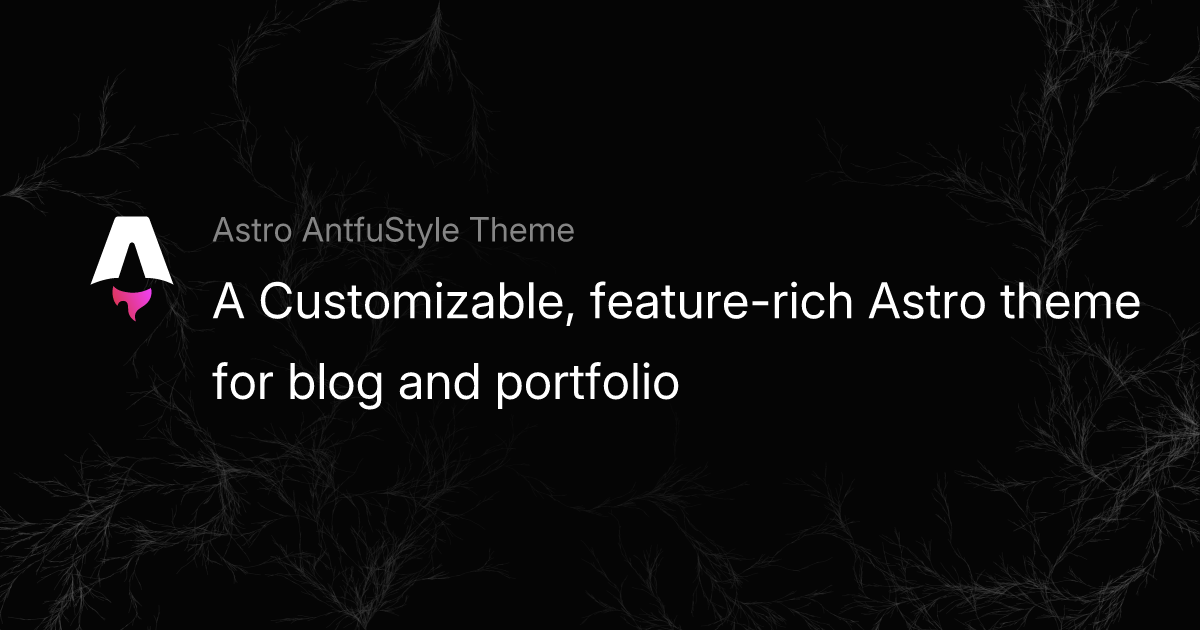
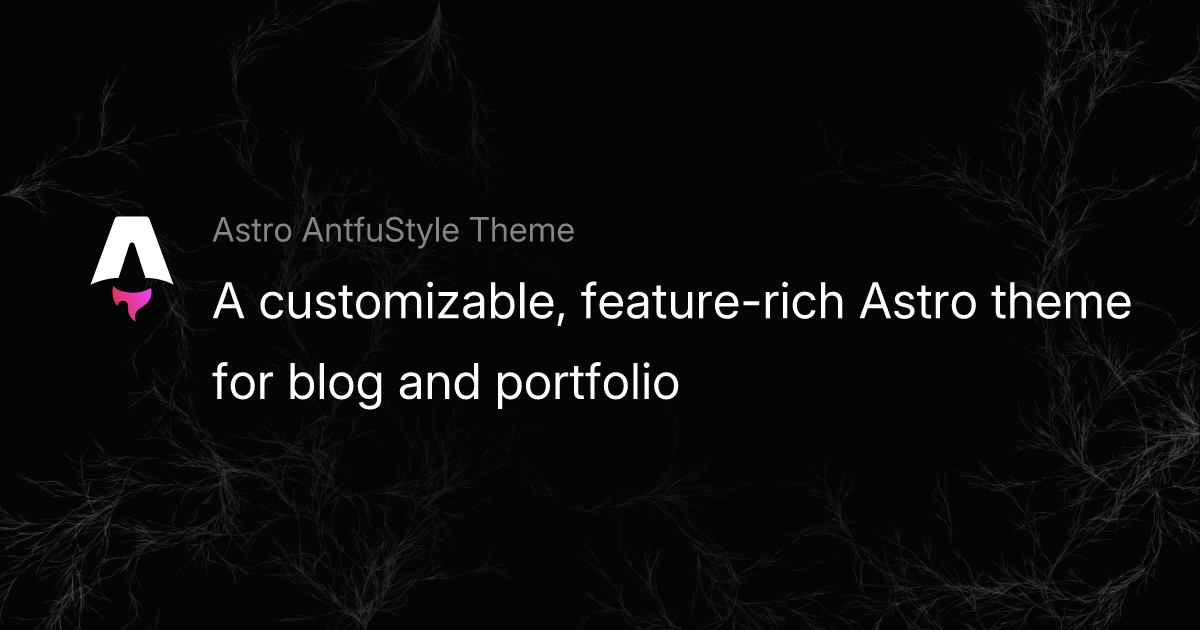
feat(customize): add features.ogImage config & support regenerating fallback og image 1. add customizable ogImage options: authorOrBrand, fallbackTitle, fallbackBgType 2. modify the ogImageURL assignment logic 3. update remark-generate-og-image plugin logic

Changed region(s): [[0.2158, 0.4524, 0.9558, 0.5127]]

diff --git a/plugins/remark-generate-og-image.ts b/plugins/remark-generate-og-image.ts
@@ -28,13 +28,18 @@ const satoriOptions: SatoriOptions = {
   ],
 }
 
-function checkFileExistsInDir(path: string, filename: string) {
+export function checkFileExistsInDir(path: string, filename: string) {
   const fullPath = join(process.cwd(), path, filename)
 
   return existsSync(fullPath)
 }
 
-async function generateOgImage(title: string, bgType: BgType, output: string) {
+async function generateOgImage(
+  source: string,
+  title: string,
+  bgType: BgType,
+  output: string
+) {
   await mkdir(dirname(output), { recursive: true })
 
   console.log(
@@ -42,7 +47,10 @@ async function generateOgImage(title: string, bgType: BgType, output: string) {
   )
 
   try {
-    const svg = await satori(ogImageMarkup(title, bgType), satoriOptions)
+    const svg = await satori(
+      ogImageMarkup(source, title, bgType),
+      satoriOptions
+    )
     const png = new Resvg(svg).render().asPng()
     writeFileSync(output, png)
   } catch (e) {
@@ -59,9 +67,27 @@ async function generateOgImage(title: string, bgType: BgType, output: string) {
  * @see https://github.com/vfile/vfile
  */
 function remarkGenerateOgImage() {
+  // get config
+  const ogImage = config.features.ogImage
+  if (!(Array.isArray(ogImage) && ogImage[0])) return
+
+  const sourceConfig = ogImage[1].authorOrBrand
+  const titleConfig = ogImage[1].fallbackTitle
+  const bgTypeConfig = ogImage[1].fallbackBgType
+
   // eslint-disable-next-line @typescript-eslint/ban-ts-comment
   // @ts-expect-error
   return async (_tree, file) => {
+    // regenerate fallback
+    if (!checkFileExistsInDir('public/og-images', 'og-image.png')) {
+      await generateOgImage(
+        sourceConfig,
+        titleConfig,
+        bgTypeConfig,
+        'public/og-images/og-image.png'
+      )
+    }
+
     // check filename
     const filename = file.basename
     if (!filename || !(filename.endsWith('.md') || filename.endsWith('.mdx')))
@@ -97,10 +123,9 @@ function remarkGenerateOgImage() {
       return
     }
 
-    // get frontmatter title
+    // get title
     const title = file.data.astro.frontmatter.title
     if (!title.trim().length) {
-      console.warn('test')
       console.warn(
         `${chalk.black(getCurrentFormattedTime())} ${chalk.yellow(`[WARN] The 'title' field in the '${filename}' frontmatter is an empty string.`)}`
       )
@@ -108,17 +133,15 @@ function remarkGenerateOgImage() {
 
     // get bgType
     const dirname = basename(file.dirname)
-    const bgType = config.pages[dirname].bgType ?? 'plum'
+    const bgType = config.pages[dirname].bgType ?? bgTypeConfig
 
     // generate og images
     await generateOgImage(
+      sourceConfig,
       title.trim(),
       bgType,
       `public/og-images/${nameWithoutExt}.png`
     )
-
-    // add frontmatter
-    file.data.astro.frontmatter.ogImage = `/og-images/${nameWithoutExt}.png`
   }
 }
 

diff --git a/src/types.ts b/src/types.ts
@@ -241,11 +241,43 @@ export interface ShareConfig {
   mastodon: Mentioned
 }
 
-export interface TocConfig {
+interface TocConfig {
   /**
    * Set the display position of the table of contents.
    */
   position: 'left' | 'right'
+}
+
+interface OgImageConfig {
+  /**
+   * Set the name of the author or brand associated with the content.
+   *
+   * @description
+   * Used to display above the title to enhance recognition.
+   */
+  authorOrBrand: string
+
+  /**
+   * Set title for fallback OG image.
+   *
+   * @description
+   * A fallback OG image is the default image used when the specified or auto-generated OG image is missing,
+   * ensuring that any page shared on social platforms displays an image.
+   *
+   * @remarks
+   * The fallback OG image is stored at `/public/og-images/og-image.png`.
+   * Delete the existing file to regenerate.
+   */
+  fallbackTitle: string
+
+  /**
+   * Set the fallback background for automatically generated OG images.
+   *
+   * @description
+   * The automatically generated OG images will default to the page's {@link PageMetadata.bgType} for
+   * the background. If not set, the background will use the type specified in this field.
+   */
+  fallbackBgType: BgType
 }
 
 interface FeaturesConfig {
@@ -259,7 +291,7 @@ interface FeaturesConfig {
   share: FeatureConfig<ShareConfig>
 
   /**
-   * Enable and configure the toc feature, which allows visitors to share content to social platforms.
+   * Enable and configure the TOC feature.
    *
    * @description
    * If enabled, both the `/blog/[slug]` and `/projects` pages will automatically include a TOC.
@@ -269,6 +301,18 @@ interface FeaturesConfig {
    * The TOC automatically hides when the viewport width less than 1024px.
    */
   toc: FeatureConfig<TocConfig>
+
+  /**
+   * Enable and configure the automatic OG image generation feature.
+   *
+   * @description
+   * If enabled, auto-generate OG images for Markdown/MDX files lacking ogImage
+   * in frontmatter and store in `/public/og-images`.
+   *
+   * @remarks
+   * Only available for pages generated from Markdown/MDX, as the process is implemented through remark plugin.
+   */
+  ogImage: FeatureConfig<OgImageConfig>
 }
 
 export interface Config {

diff --git a/plugins/og-template/markup.ts b/plugins/og-template/markup.ts
@@ -1,9 +1,12 @@
 import { html } from 'satori-html'
-import config from '../../src/config'
 import backgroundBase64 from './base64'
 import type { BgType } from '../../src/types'
 
-export const ogImageMarkup = (title: string, bgType: BgType) => {
+export const ogImageMarkup = (
+  source: string,
+  title: string,
+  bgType: BgType
+) => {
   if (!['plum', 'dot', 'rose', 'particle'].includes(bgType))
     throw new Error(
       "The value of 'bgType' must be one of the following: 'plum', 'dot', 'rose', 'particle'."
@@ -53,7 +56,7 @@ export const ogImageMarkup = (title: string, bgType: BgType) => {
       </div>
 
       <div tw="flex flex-col" style="gap: 10px">
-        <div tw="text-[#858585] text-2.1rem">${config.site.name}</div>
+        <div tw="text-[#858585] text-2.1rem">${source}</div>
         <div tw="text-white text-3.1rem leading-relaxed mr-18">${title}</div>
       </div>
     </div>

diff --git a/plugins/index.ts b/plugins/index.ts
@@ -7,6 +7,8 @@ import remarkGenerateOgImage from './remark-generate-og-image'
 import rehypeCallouts from 'rehype-callouts'
 import rehypeExternalLinks from 'rehype-external-links'
 import rehypeAutolinkHeadings from 'rehype-autolink-headings'
+
+import config from '../src/config'
 import type { RemarkPlugins, RehypePlugins } from 'astro'
 
 export const remarkPlugins: RemarkPlugins = [
@@ -15,7 +17,9 @@ export const remarkPlugins: RemarkPlugins = [
   remarkImageContainer,
   // https://github.com/OliverSpeir/remark-imgattr
   remarkImgattr,
-  remarkGenerateOgImage,
+  ...(Array.isArray(config.features.ogImage) && config.features.ogImage[0]
+    ? [remarkGenerateOgImage]
+    : []),
 ]
 
 export const rehypePlugins: RehypePlugins = [

diff --git a/src/config.ts b/src/config.ts
@@ -84,6 +84,15 @@ const config: Config = {
         position: 'left',
       },
     ],
+    ogImage: [
+      false,
+      {
+        authorOrBrand: 'Astro AntfuStyle Theme',
+        fallbackTitle:
+          'A customizable, feature-rich Astro theme for blog and portfolio',
+        fallbackBgType: 'plum',
+      },
+    ],
   },
 }
 

diff --git a/src/utils/index.ts b/src/utils/index.ts
@@ -208,7 +208,7 @@ export function generateToc(
   return toc
 }
 
-/* plugin */
+/* log */
 export function getCurrentFormattedTime() {
   const now = new Date()
   const hours = now.getHours().toString().padStart(2, '0')
